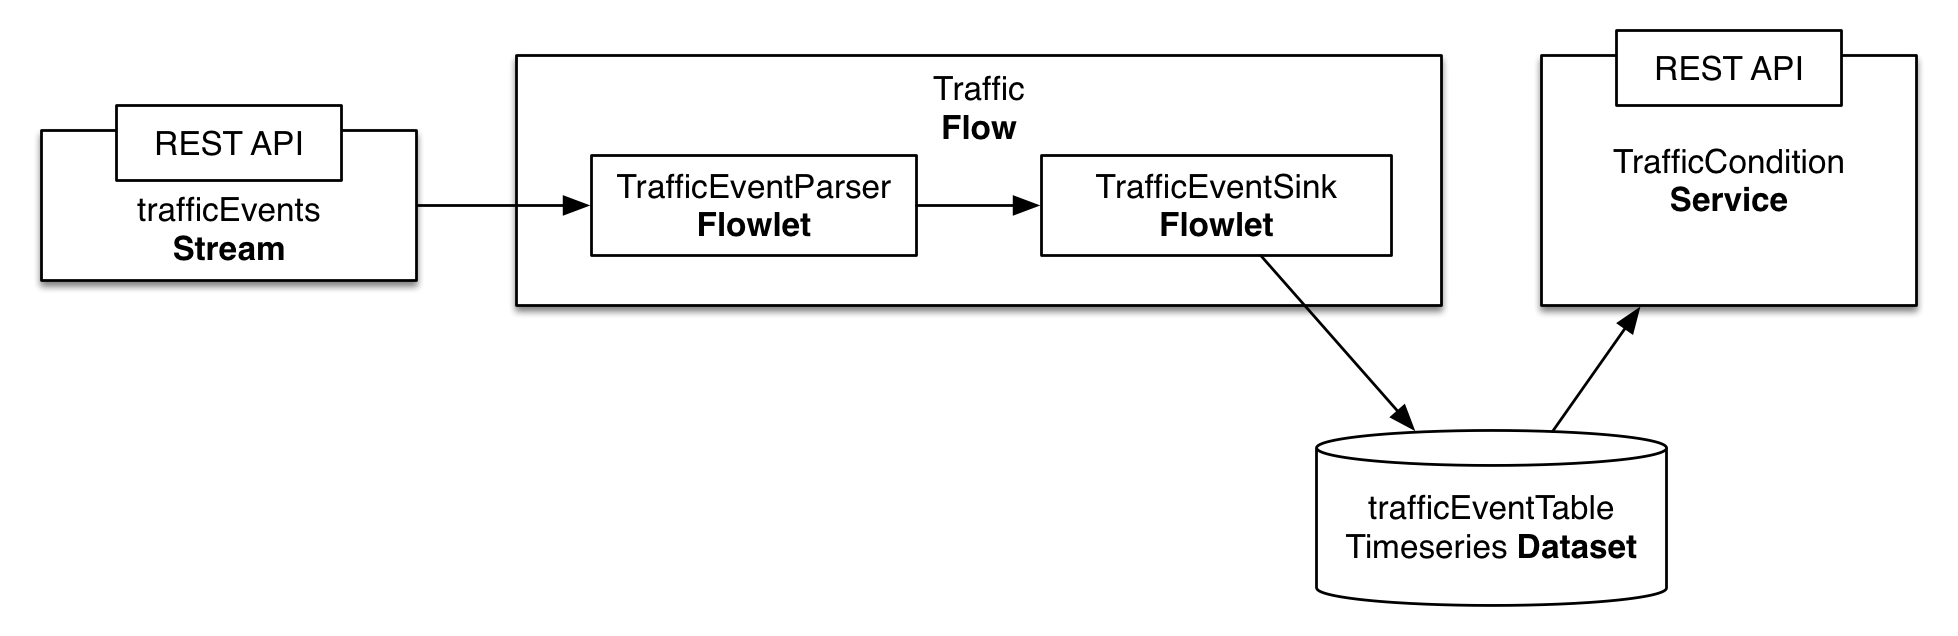
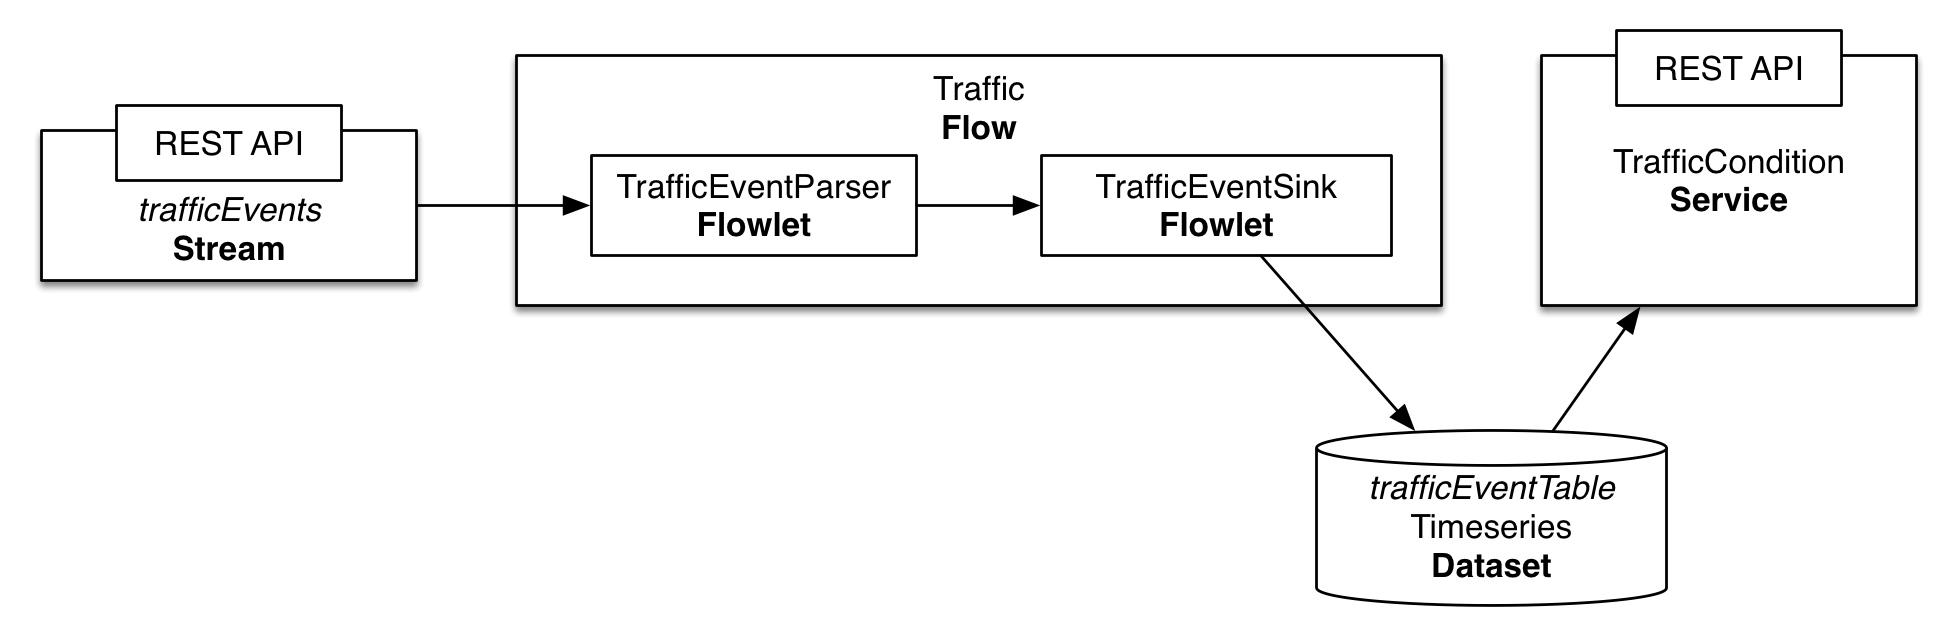
minor refactorings

Changed region(s): [[0.6854, 0.7469, 0.8412, 0.9261], [0.0623, 0.2987, 0.1558, 0.3585]]

diff --git a/src/main/java/co/cask/cdap/guides/traffic/TrafficApp.java b/src/main/java/co/cask/cdap/guides/traffic/TrafficApp.java
@@ -28,8 +28,8 @@ import co.cask.cdap.api.dataset.lib.TimeseriesTables;
  */
 public class TrafficApp extends AbstractApplication {
   static final String APP_NAME = "TrafficApp";
-  static final String STREAM_NAME = "TrafficStream";
-  static final String TIMESERIES_TABLE_NAME = "TrafficEventTable";
+  static final String STREAM_NAME = "trafficEvents";
+  static final String TIMESERIES_TABLE_NAME = "trafficEventTable";
 
   /**
    * Time interval to store per row in the TimeseriesTable.  This controls the time range over which entries
